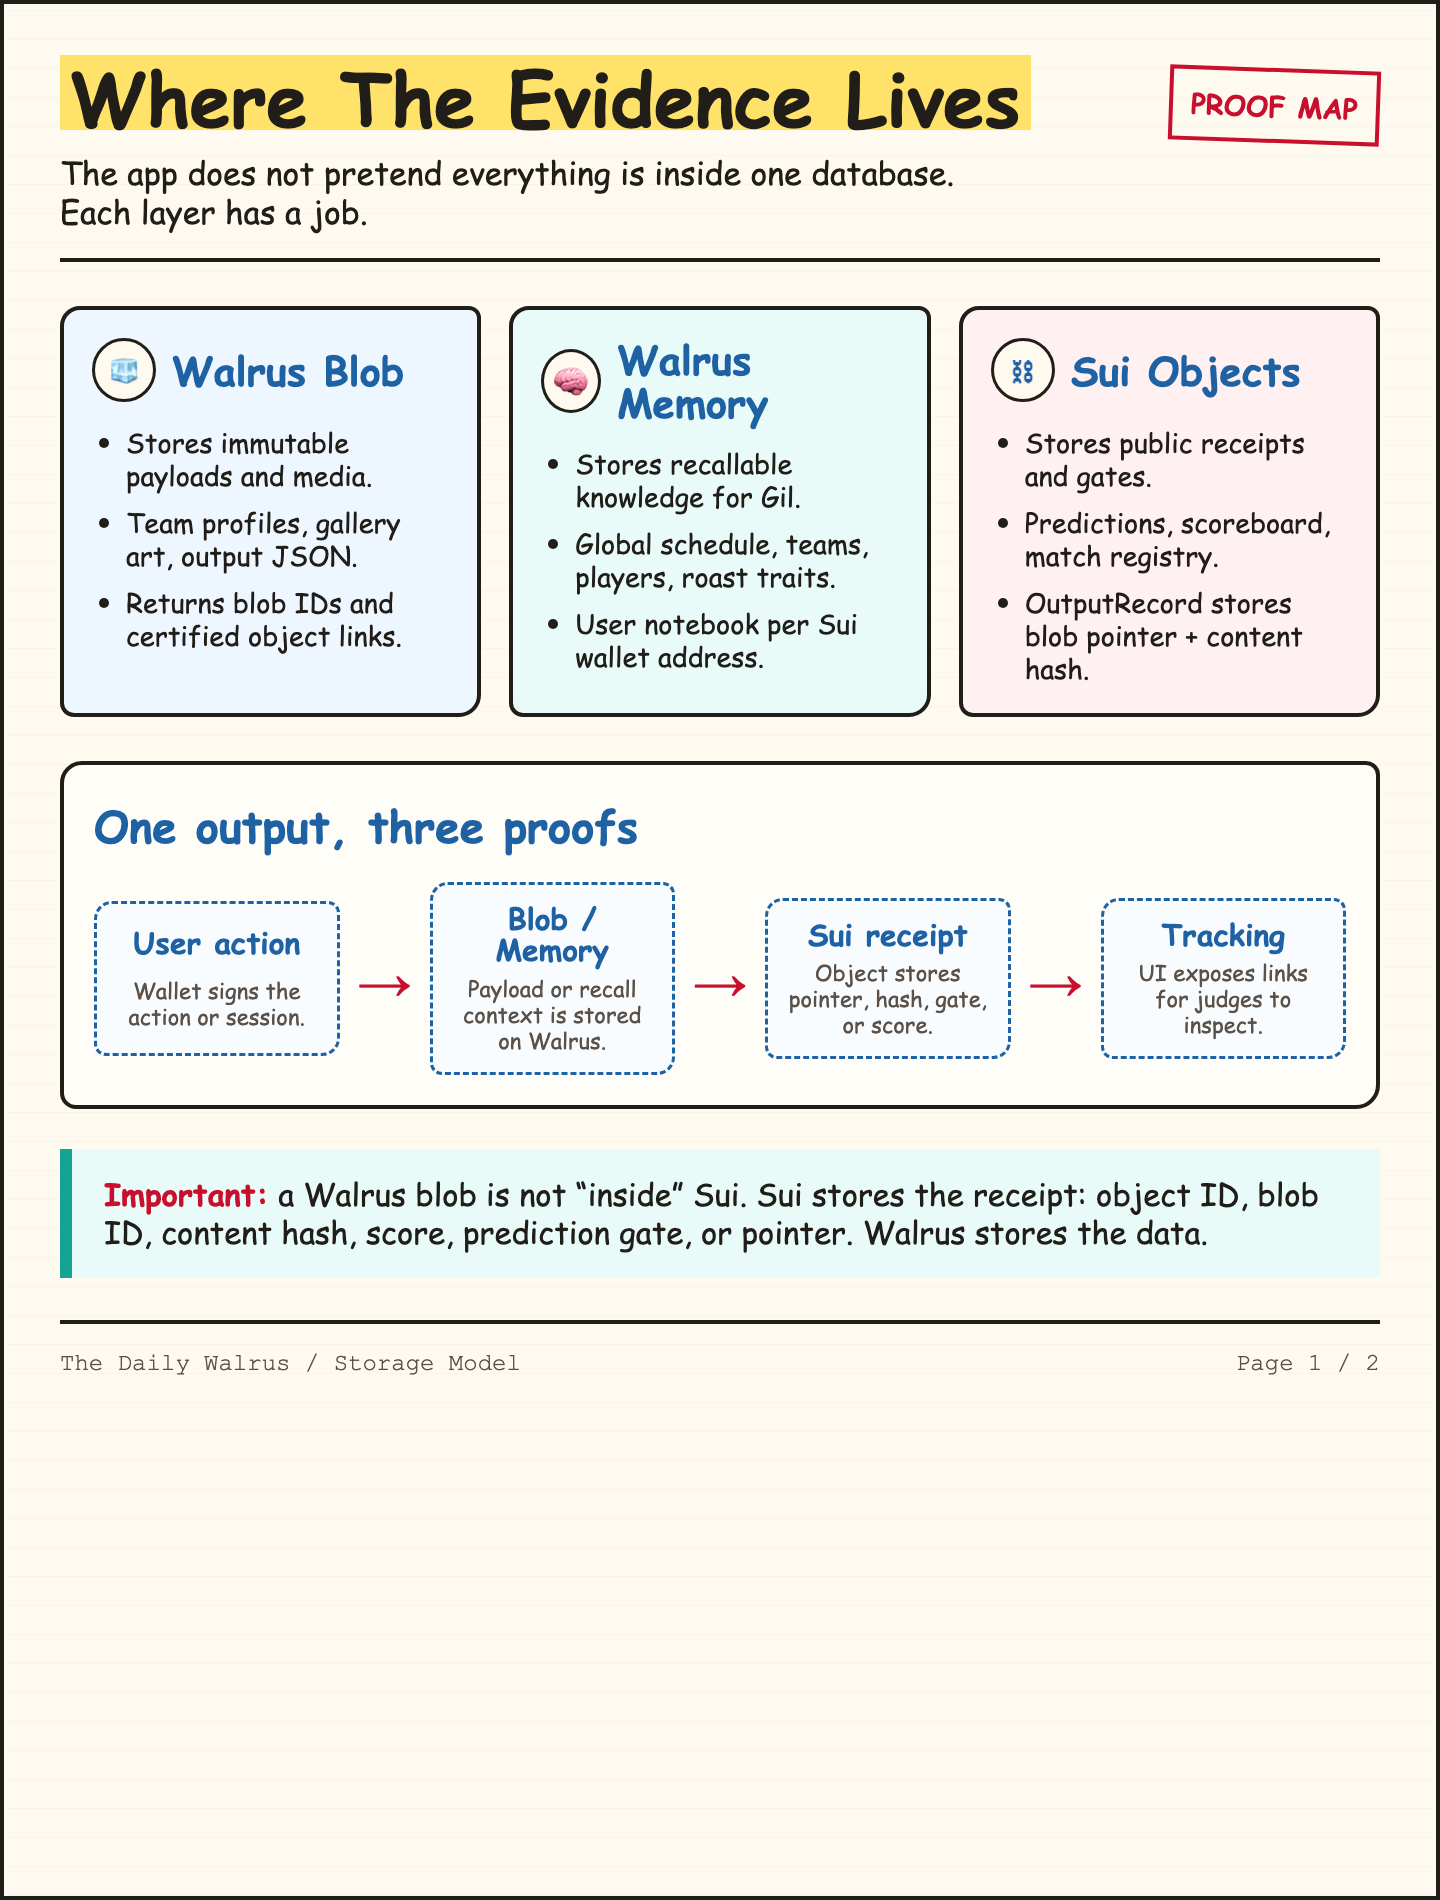
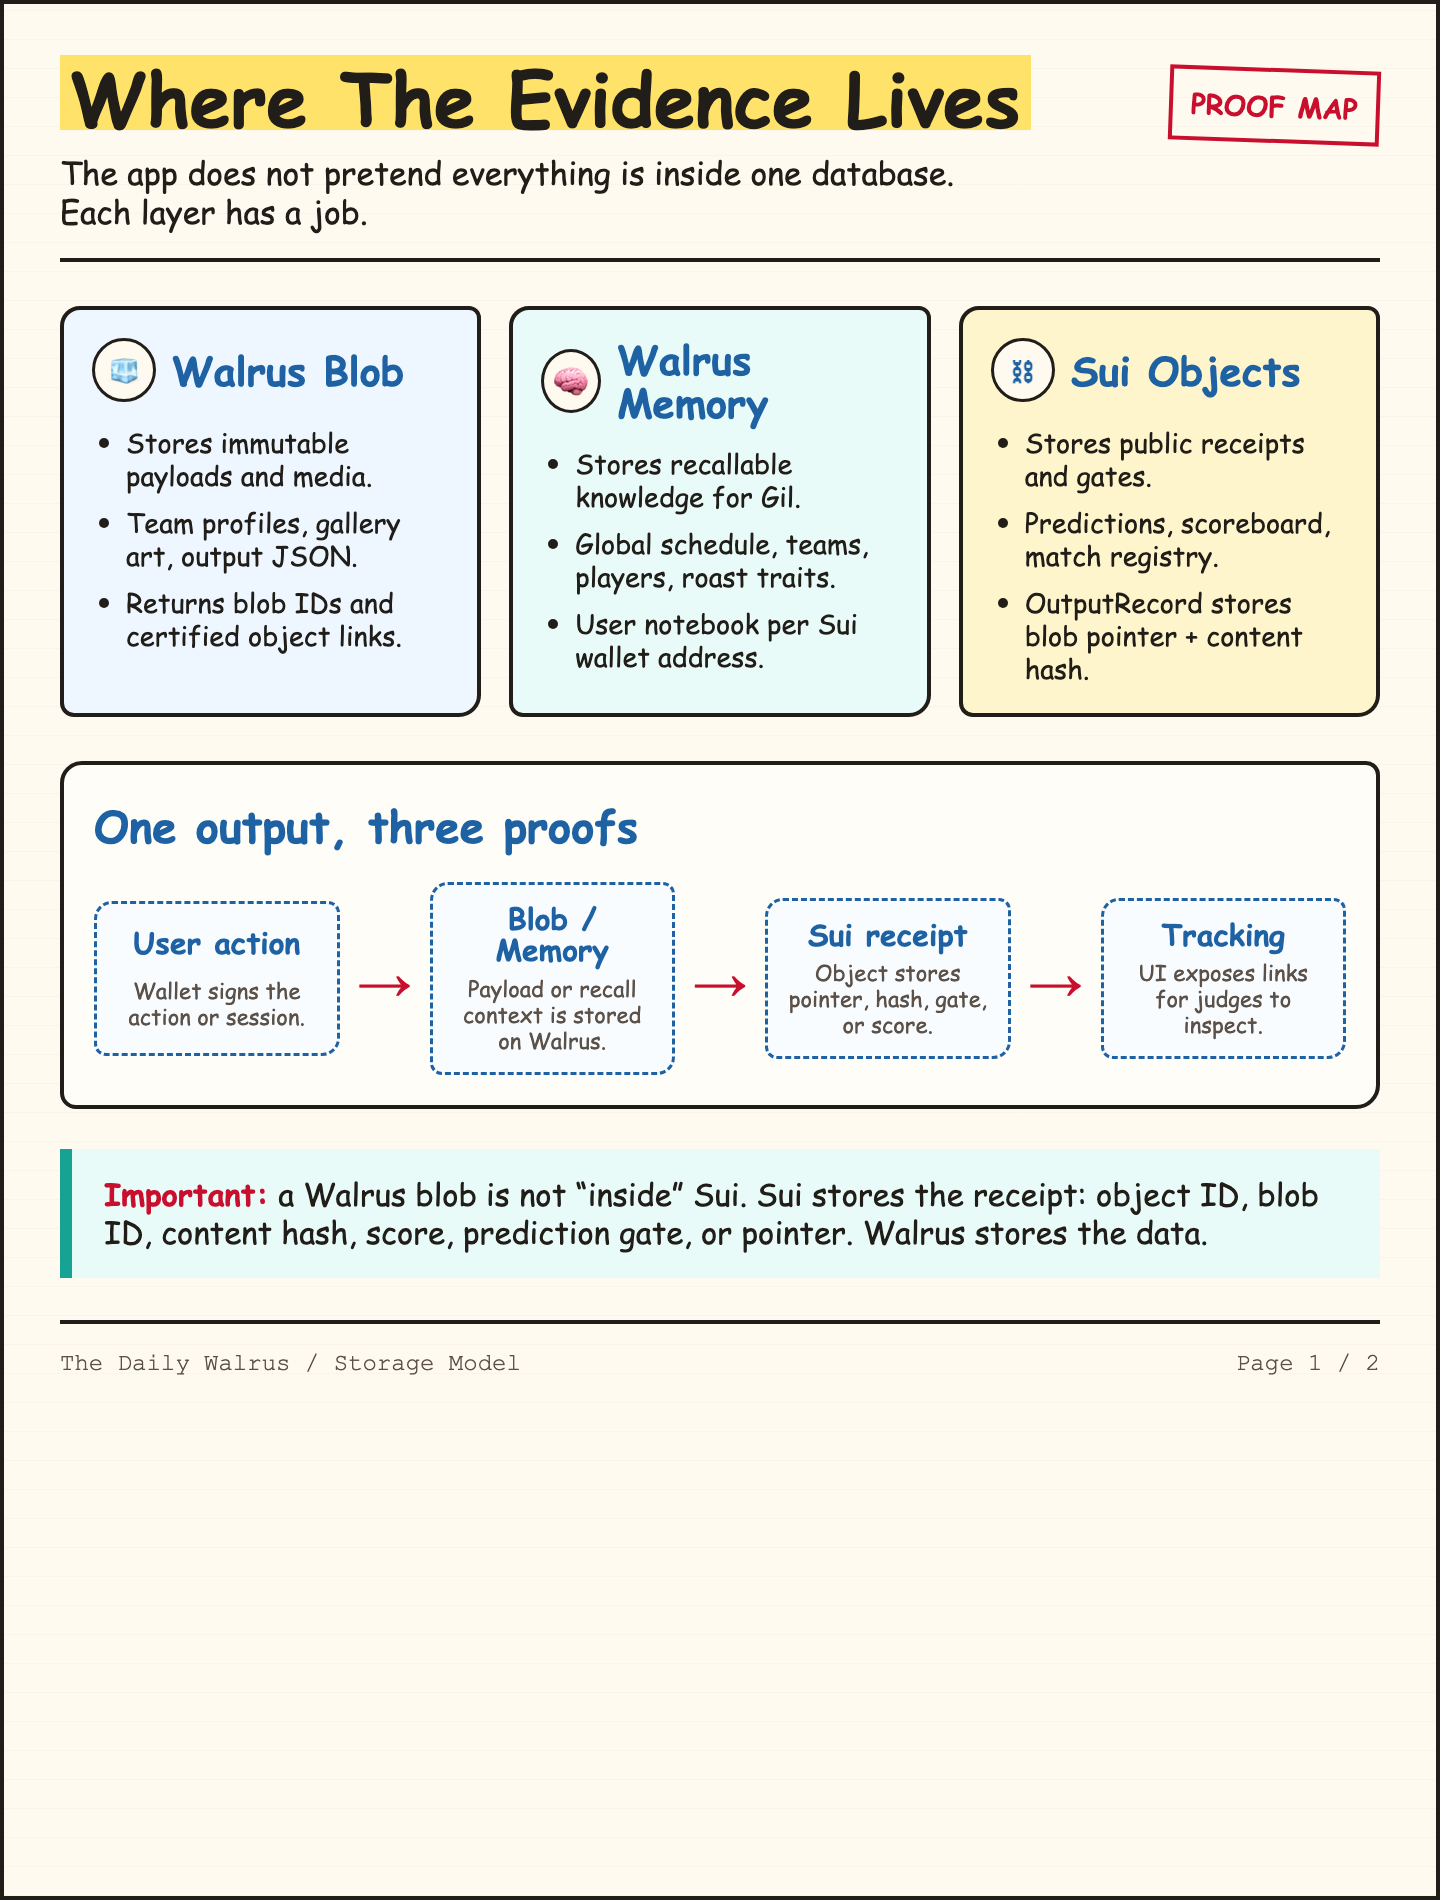
fix: align explainer palette

Changed region(s): [[0.6562, 0.1553, 0.9688, 0.3726]]

diff --git a/apps/web/public/submission/storage-memory-explainer.html b/apps/web/public/submission/storage-memory-explainer.html
@@ -16,7 +16,7 @@
         --yellow: #ffe26a;
         --soft-blue: #eef7ff;
         --soft-teal: #e9fbf8;
-        --soft-red: #fff0f2;
+        --soft-red: #fff5cc;
       }
 
       @page {

diff --git a/docs/high-level-design-requirements.html b/docs/high-level-design-requirements.html
@@ -16,7 +16,7 @@
         --yellow: #ffe26a;
         --soft-blue: #eef7ff;
         --soft-teal: #e9fbf8;
-        --soft-red: #fff0f2;
+        --soft-red: #fff5cc;
       }
 
       @page {